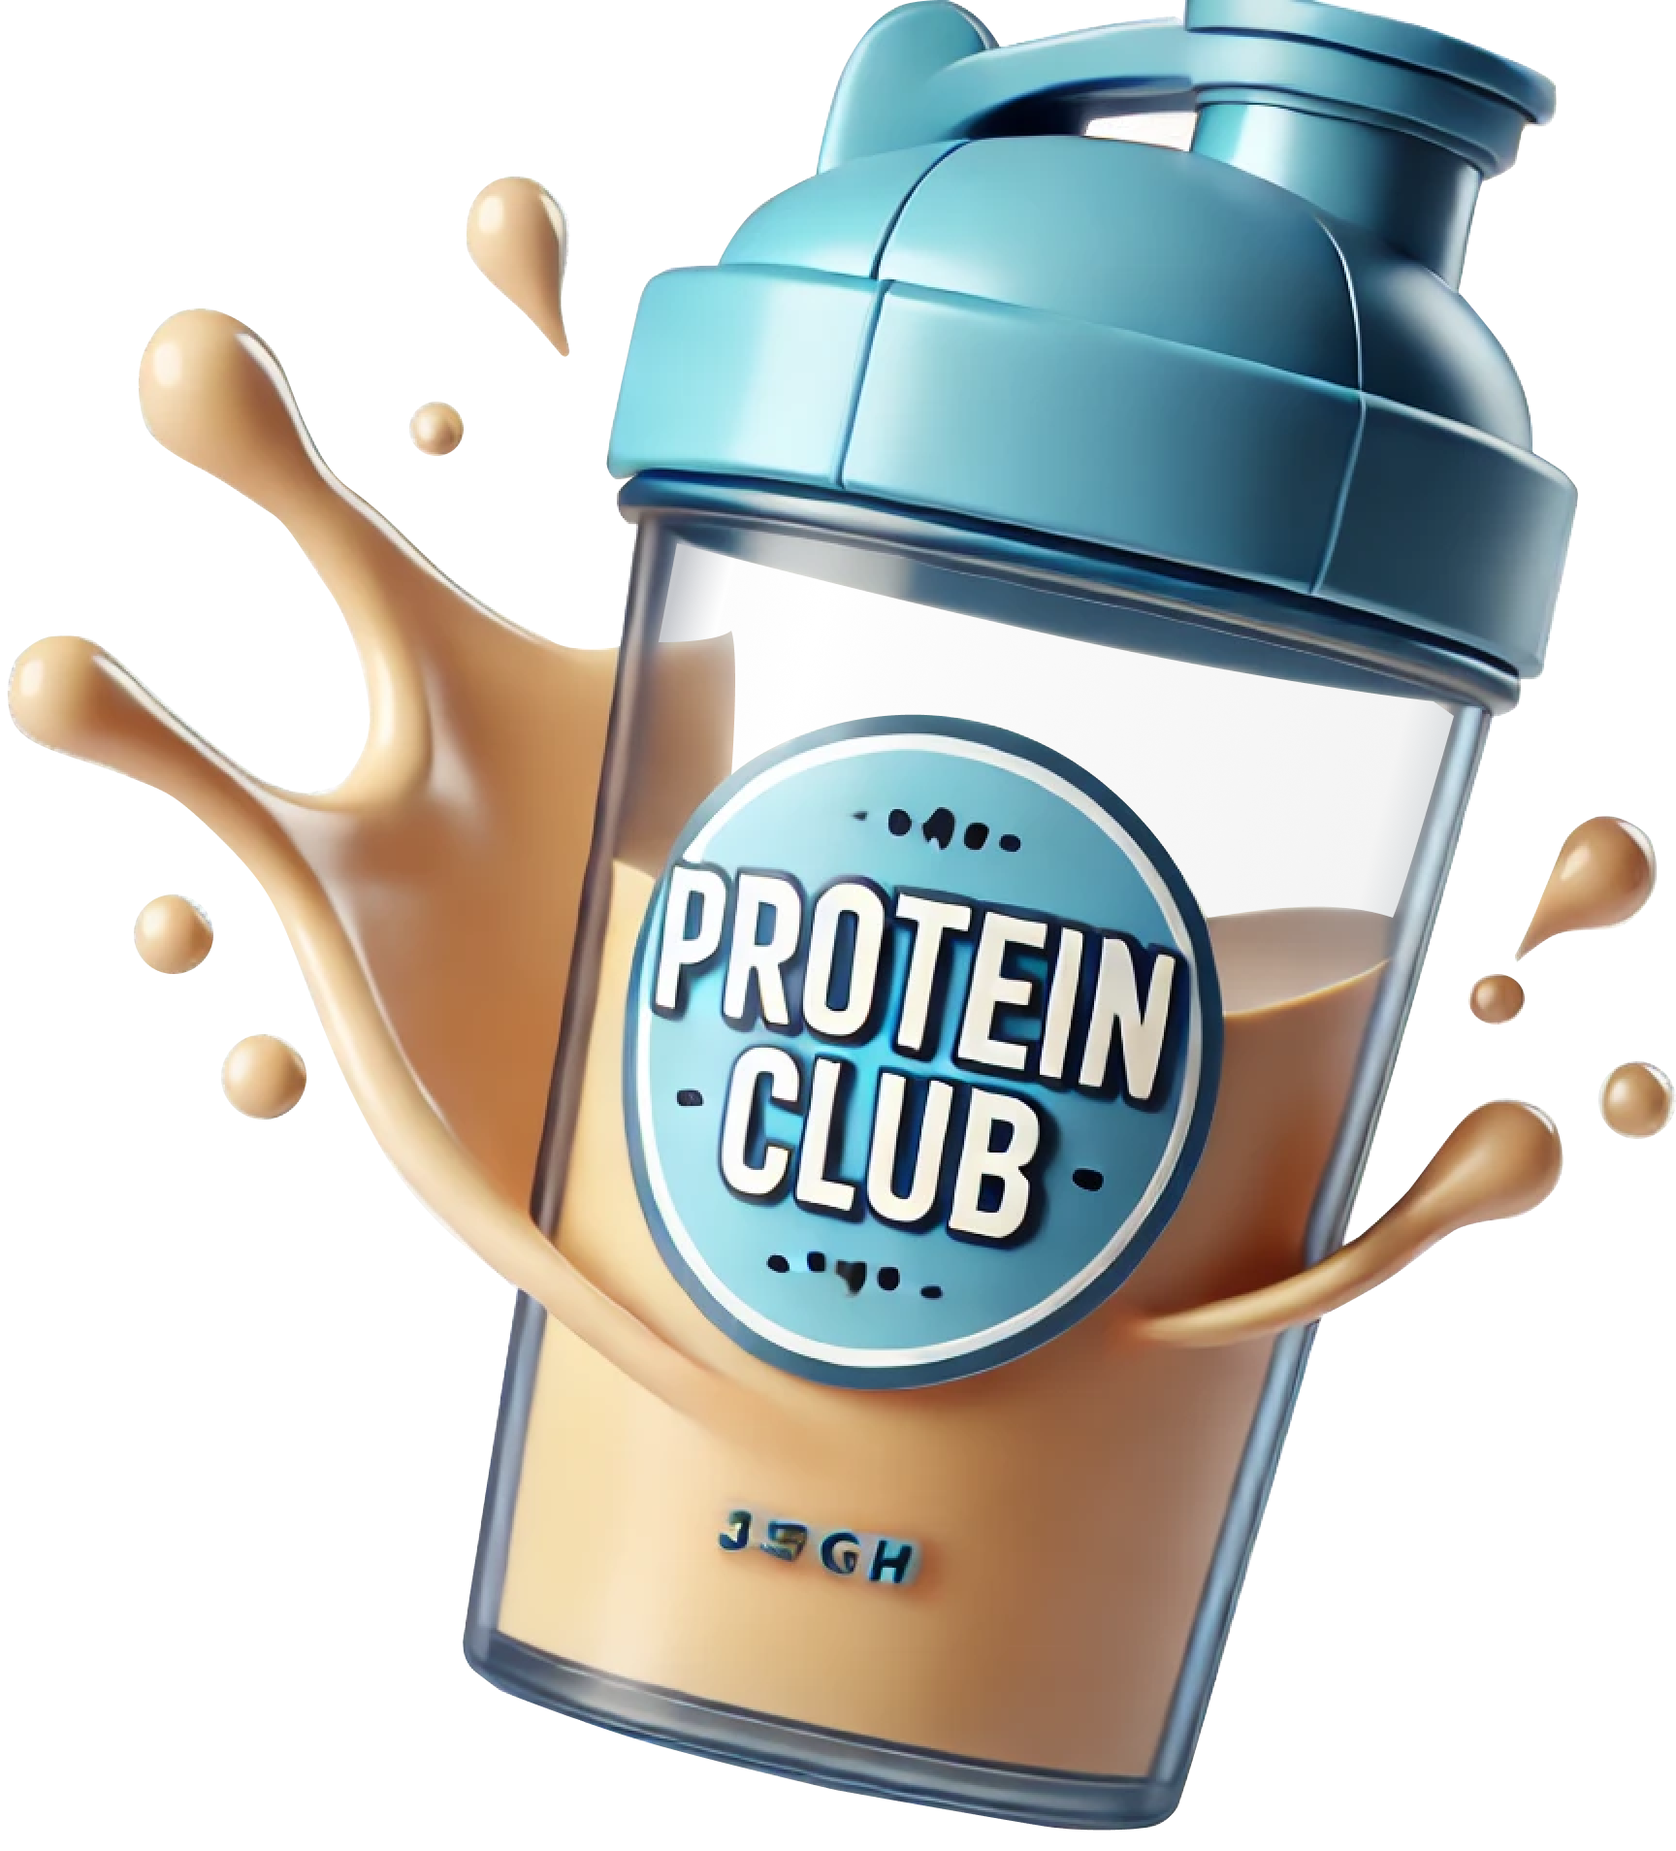
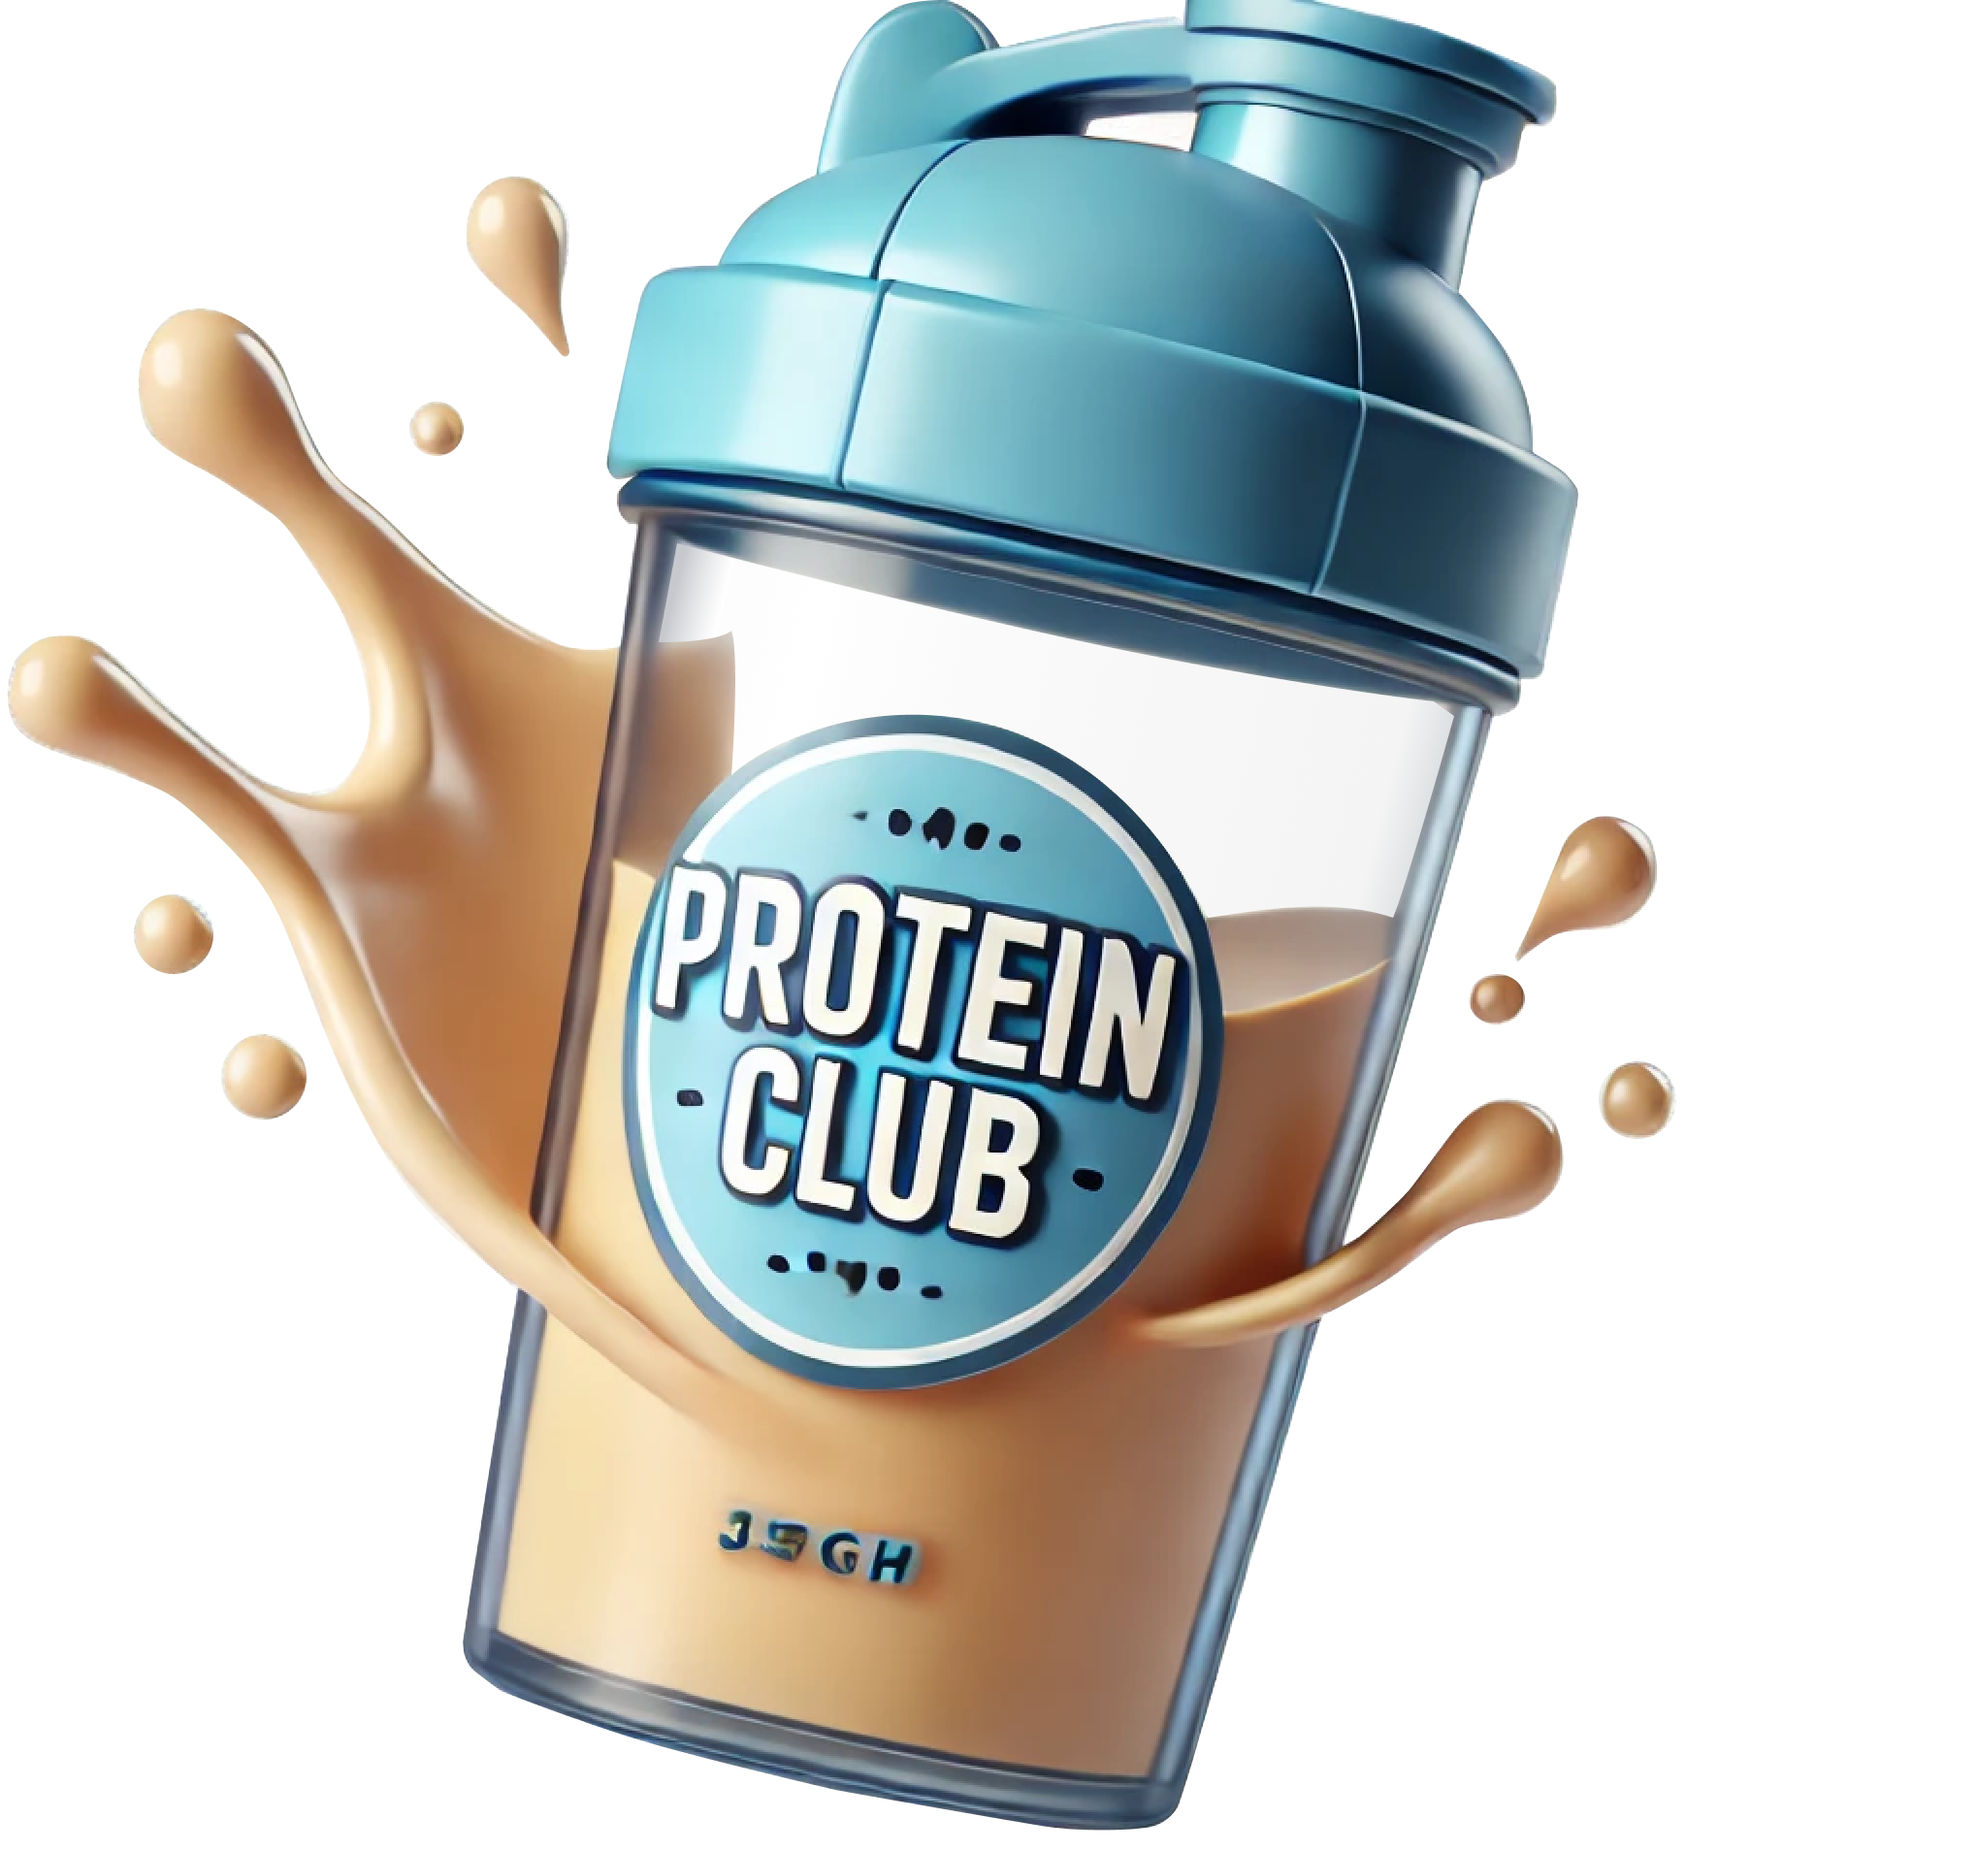
fix bottle

diff --git a/docs/index.html b/docs/index.html
@@ -17,7 +17,7 @@
     <p class="text-2xl font-serif">Join ProteinClub and get your favorite protein blends delivered to your door, every month.</p>
 
     <!-- Hero Image -->
-    <div class="mt-10 flex justify-center h-96 max-w-full pr-6">
+    <div class="mt-10 flex justify-center h-96 max-w-full">
       <img src="public/images/bottle-3.png" alt="Protein Shaker Bottle" class="h-96 object-contain">
     </div>
 
